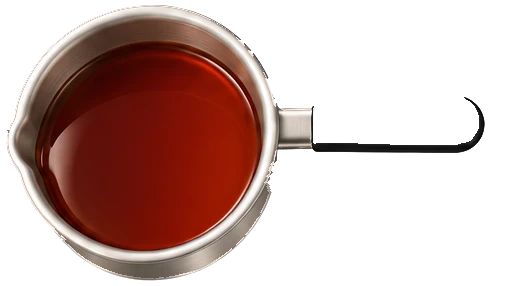
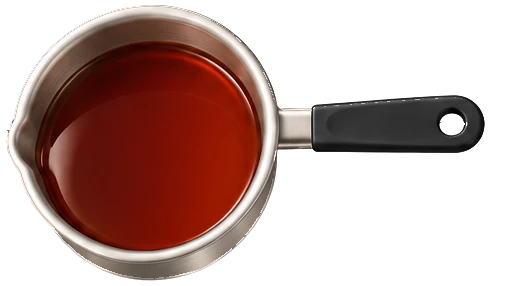
CP2: chai pans re-cut with solid black handles (the shadow drop had eaten them)
Claude-Session: https://claude.ai/code/session_013C2XtPQ7vt1eLcYgYgK71D

diff --git a/build/reports/s08-w0-art.md b/build/reports/s08-w0-art.md
@@ -17,7 +17,7 @@ Branch `worktree-agent-a9bd6c078be6c9cf9` (from `claude/new-session-b5r2am`), no
 
 ## What changed
 
-New `artpixels.py`, wired into `artcheck.mjs` as the `pixel` check with the known list and tests. Cutter gained per-piece tolerance, shadow drop, hole sizes, glass floor and gain, `cell_align`, `disc`, `rect`, `tile`, `x2` and skin matching. CLN-159: the heal lab's log shows only with `?debug=1`.
+New `artpixels.py`, wired into `artcheck.mjs` as the `pixel` check with the known list and tests. Cutter gained per-piece tolerance, shadow drop, hole sizes, glass floor and gain, `cell_align`, `disc`, `rect`, `tile`, `x2` and skin matching. CLN-159: the heal lab's log shows only with `?debug=1`. CP2 pans re-cut without the shadow drop, which had eaten their black handles (orchestrator's catch).
 
 ## Proof
 
